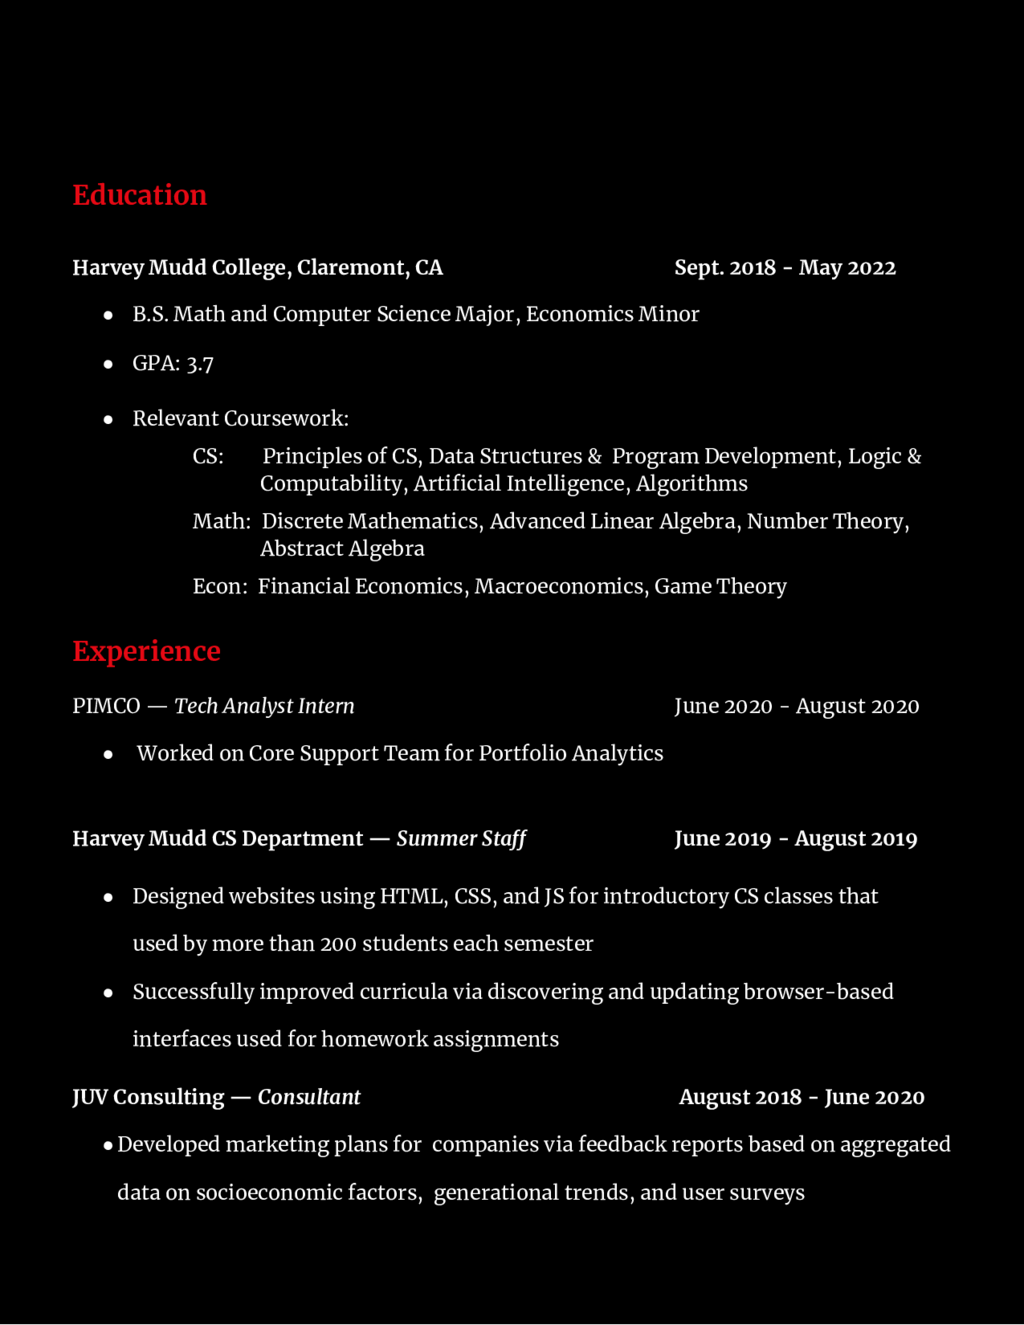
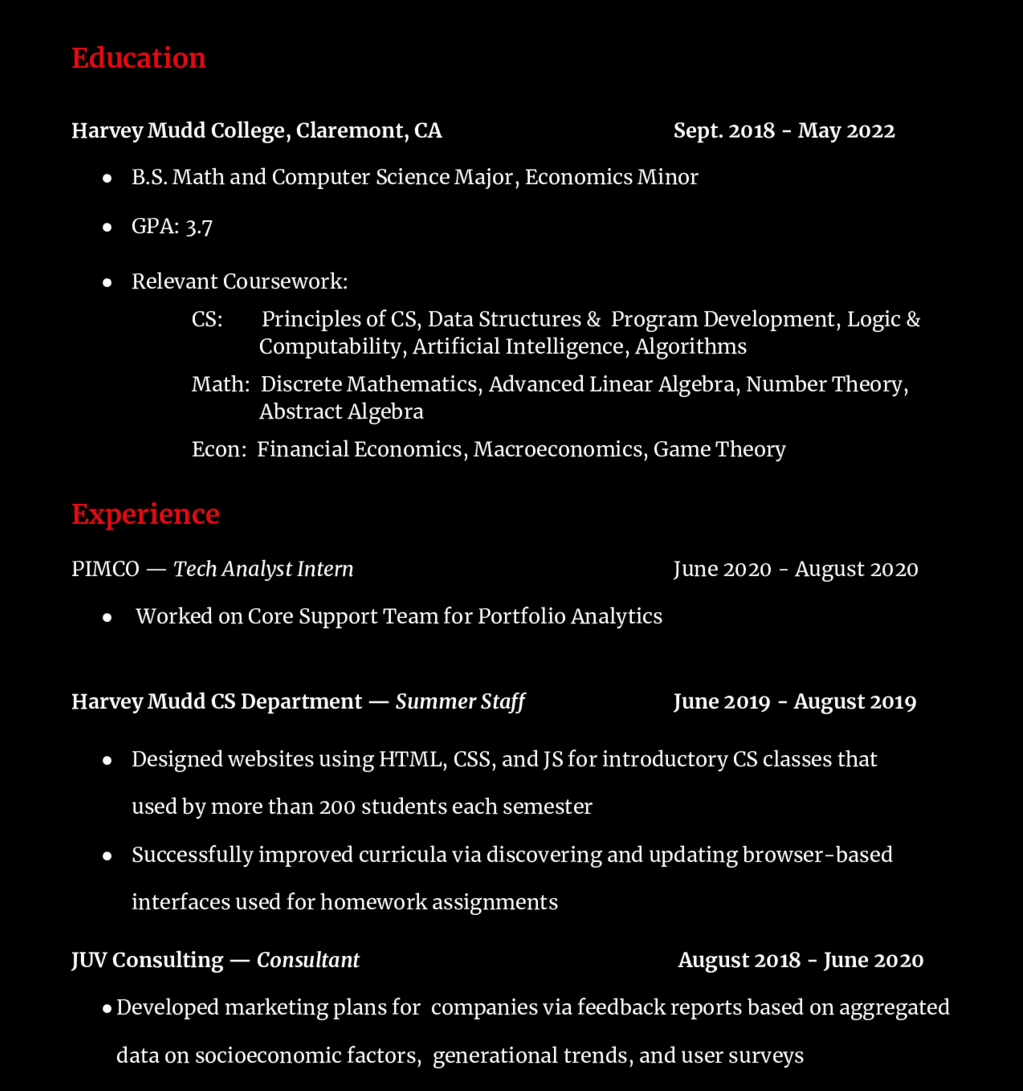
resize resume

diff --git a/resume.html b/resume.html
@@ -29,9 +29,9 @@
                 </buttons>
             </header>
         </div>
-
-        <img src='./images/Website_Resume-0.png' />
-        <img src='./images/Website_Resume-1.png' />
-
+        <div class='resume_images'>
+            <img src='./images/Website_Resume-0.png' />
+            <img src='./images/Website_Resume-1.png' />
+        </div>
     </body>
 </html>

diff --git a/css/main.css b/css/main.css
@@ -304,3 +304,4 @@ images: 400x400px, use https://resizeimage.net/
     color: white;
     transform: rotateY(180deg);
   }
+
